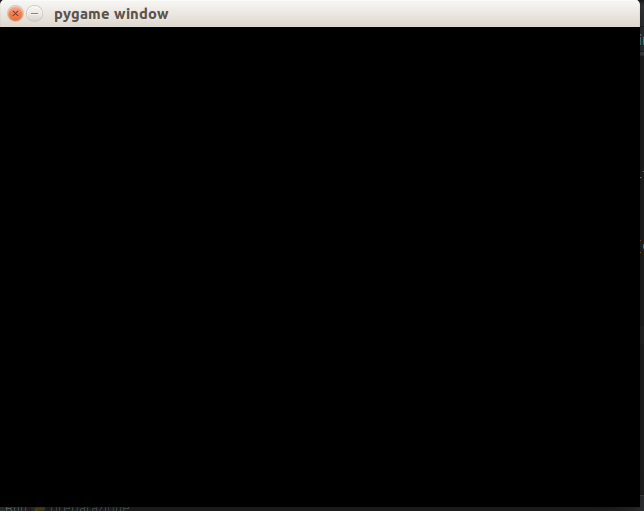
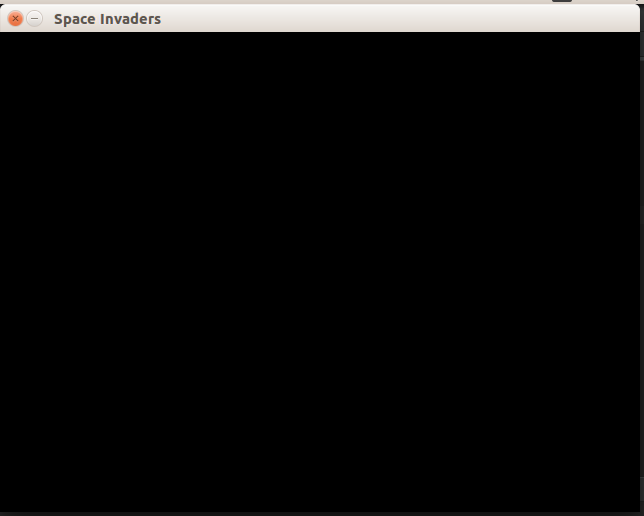
Draft

Changed region(s): [[0.0, 0.0, 1.0, 0.1174], [0.0, 0.9687, 0.2174, 1.0], [0.9938, 0.4697, 1.0, 0.499]]

diff --git a/src/inizio.py b/src/inizio.py
@@ -25,9 +25,7 @@ cannone_rettamgolo.centerx = larghezza / 2
 cannone_rettamgolo.bottom = altezza
 
 pygame.display.set_caption('Space Invaders')
-pygame.mouse.set_visible(False)
 
-# set up sounds
 pygame.mixer.music.load("quake.mp3")
 pygame.mixer.music.play(-1, 0.0)
 

diff --git a/inizio.md b/inizio.md
@@ -5,8 +5,8 @@ non la chiudiamo con il nostro cannone fermo in basso al centro e una musica di 
 
 ## Una bella finestra nera
 
-Per prima cosa creiamo semplicemente il campo di gioco che consiste in una finestra nera larga 640 pixels (punti) e
-alta 480.
+Per prima cosa creiamo semplicemente il campo di gioco che consiste in una finestra nera dal nome *Space Invaders* 
+larga 640 pixels (punti) e alta 480.
 
 ```python
 import pygame
@@ -17,6 +17,8 @@ larghezza = 640
 dimensioni_scehrmo = larghezza, altezza
 nero = 0, 0, 0
 pygame.init()
+
+pygame.display.set_caption('Space Invaders')
 
 schermo = pygame.display.set_mode(dimensioni_scehrmo)
 schermo.fill(nero)
@@ -85,11 +87,11 @@ Cioè per ogni **evento** che è successo si verifica se l'evento è una richies
 
 Quindi adesso il vostro gioco si chiude quando cercate di chiudere la finestra.
 
-## Disegnamo il cannone
+## Disegnamo il cannone in basso al centro
 
 Per disegnare il cannone bisogna leggere l'immagine del cannone, costruire un rettangolo grande come l'immagine e
-tutte le volte che vorremo disegnare il cannone posizioniamo il rettangolo sullo scermo e diciamo allo scrmo di
-riempire il rettangolo con quella immagine. Troppe parole: facciamo spazio al codice:
+tutte le volte che vorremo disegnare il cannone posizioniamo il rettangolo sullo schermo e diciamo allo schermo di
+riempire il rettangolo l'immagine. Troppe parole: facciamo spazio al codice:
 
 ```python
 cannone_immagine = pygame.image.load("cannone.png")
@@ -107,7 +109,7 @@ Per capire come si posizionano i rettangoli usate questo schema:
 ![Rettangolo](rettangolo.png)
 
 Ci sono anche altre proprietà del rettangolo, ma quelle segnate nel disegno bastano e avanzano per iniziare. Comunque
-dopo averlo impostato le ho stampate tutte:
+questo è il valore che hanno tutti gli attributi del rettangolo dopo averlo posizionato in basso al centro:
 
 ```
 cannone_rettamgolo x : 294
@@ -133,3 +135,26 @@ cannone_rettamgolo height : 32
 cannone_rettamgolo w : 52
 cannone_rettamgolo h : 32
 ```
+
+## Musica Maestro
+
+Vogliamo mettere un bel tappetino musicale alle nostre partite. Per fare questo è sufficiente caricare la musica 
+e madarla in play dicendogli di farla continuamente.
+
+```python
+pygame.mixer.music.load("quake.mp3")
+pygame.mixer.music.play(-1, 0.0)
+```
+
+`pygame.mixer.music` è lo speciale modulo che gestisce la musica di sottofondo e il primo argomento di `play()` è il 
+numero di volte che vogliamo riprodurre la canzone: `-1` signigica indefinitivamente.
+
+Se facciamo questo prima di iniziare il ciclo main di `pygame` allora la musica ci accomagnerà sempre.
+
+## Dove siamo adesso
+
+Ora il vostro programma dovrebbe essere molto simile a [questo](src/inizio.py). Abbiamo una finestra con il cannone in 
+basso al centro. Una musica inquietante ci accompagna e se chiudiamo la finestra il programma si chiude.
+
+* Prossimo: [Muoviamo e Spariamo](muovi.md)
+* Precedente: [README](README.md)
